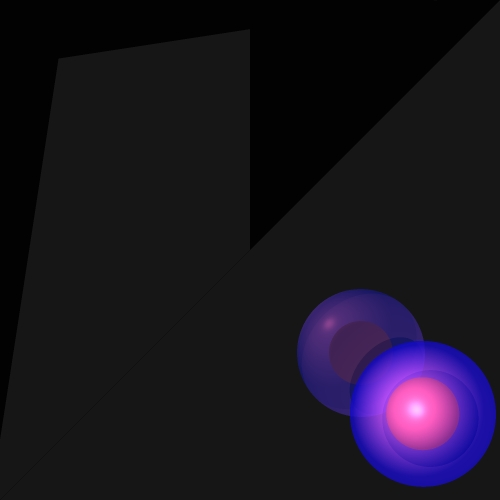
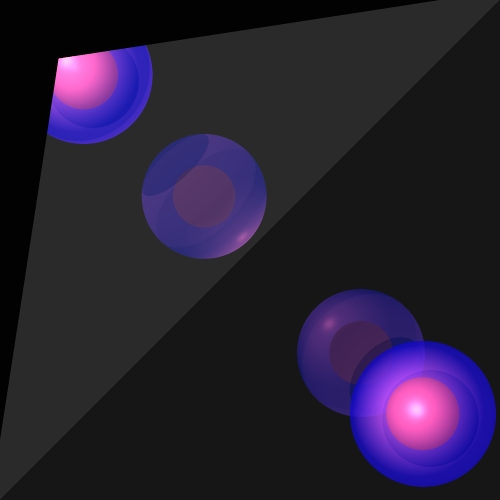
finalll

Changed region(s): [[0.27, 0.0, 1.0, 0.54], [0.09, 0.09, 0.33, 0.3]]

diff --git a/src/unittests/MiniProjectTests.java b/src/unittests/MiniProjectTests.java
@@ -2,6 +2,8 @@ package unittests;
 
 import java.util.ArrayList;
 import java.util.List;
+import java.util.Random;
+
 import org.junit.Test;
 import K_Means.Cluster;
 import K_Means.Point;
@@ -27,6 +29,7 @@ public class MiniProjectTests {
 	/**
 	 *Produce the final picture with manual distribution to boxes
 	 */
+	/*
 	@Test
 	public void FinalImage1() {
 		Scene scene = new Scene("Test scene");
@@ -57,9 +60,7 @@ public class MiniProjectTests {
 			
 		scene.addGeometries(geos);
 		
-		scene.addLights(//new SpotLight(
-				//new Vector(-1, 1, 4), new Point3D(40, -40, -115), 1, 0.000001, 0.00000001
-				//,new Color(700, 400, 400)));
+		scene.addLights(
 				new SpotLight(new Vector(-1, 2, 3), new Point3D(70, -70, -60), 1, 0.000001, 0.00000001
 						,new Color(java.awt.Color.WHITE)),
 				new DirectionalLight(new Vector(-10,20,30),new Color(java.awt.Color.BLACK)),
@@ -72,7 +73,7 @@ public class MiniProjectTests {
 		render.renderImage();
 		render.writeToImage();
 	}
-
+*/
 	/**
 	 * Produce final picture with Bounding Volume Hierarchy
 	 */
@@ -84,6 +85,7 @@ public class MiniProjectTests {
 		scene.setBackground(Color.BLACK);
 		scene.setAmbientLight(new AmbientLight(new Color(java.awt.Color.WHITE), 0.15));
 
+		//Create 10 special spheres and triangles
 		Sphere A =new Sphere(new Color(java.awt.Color.BLUE), new Material(0.2, 0.2, 0.6, 0, 30), 
 						30, new Point3D(60, -50, 50));
 		Sphere B=new Sphere(new Color(java.awt.Color.MAGENTA), new Material(0.5, 0.5, 70), 
@@ -97,6 +99,10 @@ public class MiniProjectTests {
 						new Point3D(-150, 150, 115), new Point3D(-70, -70, 140), new Point3D(75, -75, 150));
 		Sphere H=new Sphere(new Color(java.awt.Color.darkGray), new Material(0.2, 0.5, 0.6, 0, 30), 
 						15, new Point3D(20, -60, 10));
+		Sphere I=new Sphere(new Color(java.awt.Color.GRAY), new Material(0.5, 0.5, 70), 
+				10, new Point3D(0, 60, 115));
+		Sphere J=new Sphere(new Color(java.awt.Color.red), new Material(0.5, 0.5, 70), 
+				10, new Point3D(20, 60, 115));
 		
 		//Bounding Volume Hierarchy
 		List<Point> points=new ArrayList<Point>();
@@ -108,11 +114,28 @@ public class MiniProjectTests {
 		points.add(new Point(F));
 		points.add(new Point(G));
 		points.add(new Point(H));
+		points.add(new Point(I));
+		points.add(new Point(J));
+		
+		//Create 25 more spheres
+		Random r= new Random();
+		Color Co = new Color();
+		for (int i=0; i<25; i++) {
+			if (i%2==0) Co = new Color(java.awt.Color.CYAN);
+			if (i%3==0) Co = new Color(java.awt.Color.RED);
+			if (i%5==0) Co = new Color(java.awt.Color.MAGENTA);
+			if (i%6==0) Co = new Color(java.awt.Color.BLUE);
+			if (i%7==0) Co = new Color(java.awt.Color.GREEN);
+			if (i%9==0) Co = new Color(java.awt.Color.ORANGE);
+			Sphere X = new Sphere(Co, new Material(0.5,0.4,70), 
+			r.nextInt(10)+5, new Point3D(r.nextInt(160)-50, r.nextInt(200)-80, r.nextInt(40)-30));
+			points.add(new Point(X));
+		}
 		
 		k_means Kmeans = new k_means();
         Kmeans.init(points);
         Kmeans.calculate(); 
-        List<Cluster> clusters=Kmeans.getClusters(); //Devide all the geometries into 3 clusters
+        List<Cluster> clusters=Kmeans.getClusters(); //Divide all the geometries into 3 clusters
         for(Cluster c: clusters) { //Put all of the geometries in this cluster in one box
         	Geometries geos = new Geometries();       	
         	for(Point p: c.getPoints()) {
@@ -121,14 +144,14 @@ public class MiniProjectTests {
         	scene.addGeometries(geos);
         	
         }
-		scene.addLights(//new SpotLight(
-				//new Vector(-1, 1, 4), new Point3D(40, -40, -115), 1, 0.000001, 0.00000001
-				//,new Color(700, 400, 400)));
-				new SpotLight(new Vector(-1, 2, 3), new Point3D(70, -70, -60), 1, 0.000001, 0.00000001
+		scene.addLights(
+				new SpotLight(new Vector(-1, 2, 3), new Point3D(70, -70, -60), 1, 0.000005, 0.00000005
 						,new Color(java.awt.Color.WHITE)),
 				new DirectionalLight(new Vector(-10,20,30),new Color(java.awt.Color.BLACK)),
-				new PointLight(new Point3D(-50, 50, 100),2.5, 0.0000001, 0.0000000001
-						,new Color(java.awt.Color.WHITE)));
+				new PointLight(new Point3D(-30, 70, 140),2.5, 0.0000005, 0.0000000005
+						,new Color(java.awt.Color.BLUE)),
+				new PointLight(new Point3D(-50, 50, 100),2.5, 0.0000005, 0.0000000005
+						,new Color(java.awt.Color.YELLOW)));
 
 		ImageWriter imageWriter = new ImageWriter("Final2", 200, 200, 600, 600);
 		Render render = new Render(imageWriter, scene).setMultithreading(3).setDebugPrint();

diff --git a/src/elements/Camera.java b/src/elements/Camera.java
@@ -102,12 +102,12 @@ public class Camera {
         return new Ray(Vij,p);
         
 	}
-	//supersampling
+	//SuperSampling
 	public List<Ray> constructRaysThroughPixel (int nX, int nY, int j, int i, double screenDistance, double screenWidth,
 			double screenHeight, int raysAmount)
 	{
 		List<Ray> Rays = new ArrayList<Ray>();
-		int numOfRays = (int)Math.floor(Math.sqrt(raysAmount)); //num of rays in each row or column
+		int numOfRays = (int)Math.floor(Math.sqrt(raysAmount)); //number of rays in each row or column
 		
 		if (numOfRays==1) return List.of(constructRayThroughPixel(nX, nY, j, i, screenDistance, screenWidth, screenHeight));
 		
@@ -134,6 +134,8 @@ public class Camera {
         {
         	Pij = Pij.add(this.Vup.scale(-yi)); //move Pij to height center
         }
+        Vector Vij=Pij.subtract(p);
+        Rays.add(new Ray(Vij,p)); //the original vector
         
         double PRy = Ry / numOfRays; //height distance between each ray
         double PRx = Rx / numOfRays; //width distance between each ray

diff --git a/src/geometries/Geometries.java b/src/geometries/Geometries.java
@@ -72,8 +72,10 @@ public class Geometries implements Intersectable
 		
 		List<GeoPoint> intersec=null; //if there is no need- do not initial the list
 		
-		for(Intersectable geo: lst)
-		{
+		if (!IsIntersectionBox(ray))
+			return null;
+		
+		for(Intersectable geo: lst) {
 			List<GeoPoint> tmp=geo.findIntersections(ray);
 			if(tmp!=null) //there are a few intersection points
 			{

diff --git a/src/renderer/Render.java b/src/renderer/Render.java
@@ -18,7 +18,7 @@ public class Render {
 	 */
 	private static final int MAX_CALC_COLOR_LEVEL = 30;
 	private static final double MIN_CALC_COLOR_K = 0.001;
-	private int raysAmount = 9;
+	private int raysAmount = 50;
 	
     private Scene _scene;
     private ImageWriter _imageWriter;

diff --git a/src/primitives/Color.java b/src/primitives/Color.java
@@ -20,7 +20,7 @@ public class Color {
     /**
      * Default constructor - to generate Black Color (privately)
      */
-    private Color() {}
+    public Color() {}
 
     /**
      * Constructor to generate a color according to RGB components Each component in

diff --git a/src/elements/Light.java b/src/elements/Light.java
@@ -15,8 +15,7 @@ abstract class Light {
 	 * @param c
 	 */
 	public Light(Color c){_intensity=c;}
-	
-	
+		
 	/**
 	 * Get the intensity
 	 * @return Color
